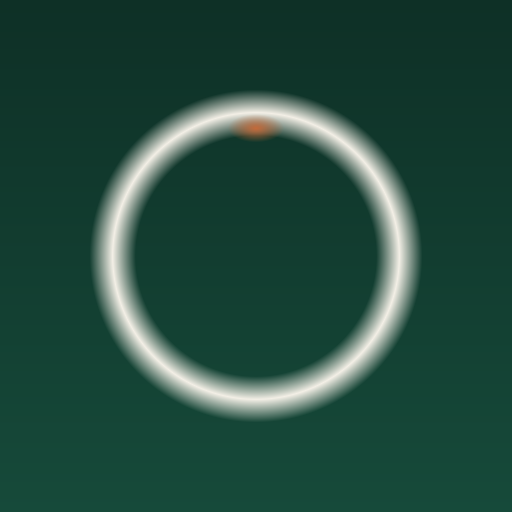
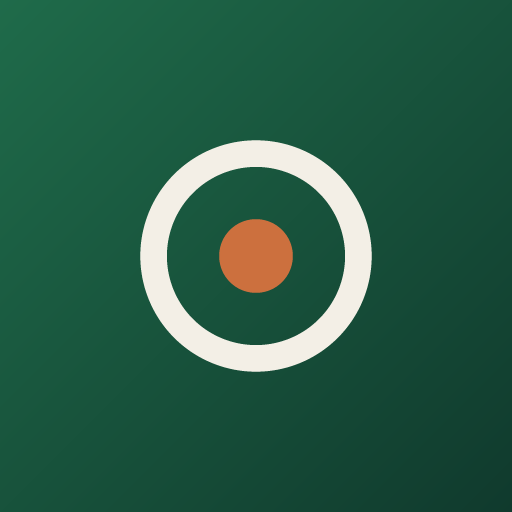
Installable app for iPhone and Mac (PWA polish; never caches /api data) (#6)
* Installable app: service worker never caches /api/*, offline shell, icon generator fixes

* Installable app: manifest, light/dark theme colors, offline Tasks message

* Installable app: safe areas, icon SVG, install instructions for iPhone and Mac

* Serve the repo root after the icon build step

* Restore main's vercel.json (no build step)

* Icon generator comment: run locally and commit the PNGs

* Commit regenerated PWA icons

---------

diff --git a/test/pwa.test.js b/test/pwa.test.js
@@ -1,0 +1,149 @@
+import { test } from 'node:test';
+import assert from 'node:assert/strict';
+import { existsSync, readFileSync } from 'node:fs';
+import vm from 'node:vm';
+import { inflateSync } from 'node:zlib';
+import { draw } from '../scripts/build-icons.mjs';
+
+const root = new URL('..', import.meta.url);
+const read = (path) => readFileSync(new URL(path, root), 'utf8');
+
+function pngSize(path) {
+  const data = readFileSync(new URL(path, root));
+  return [data.readUInt32BE(16), data.readUInt32BE(20)];
+}
+
+test('manifest installs as a standalone app with original icons and no orientation lock', () => {
+  const manifest = JSON.parse(read('manifest.json'));
+  assert.equal(manifest.display, 'standalone');
+  assert.equal(manifest.id, './');
+  assert.equal(manifest.start_url, './');
+  assert.equal(manifest.scope, './');
+  assert.equal(manifest.orientation, undefined, 'Mac and iPad windows must be free to rotate and resize');
+  assert.ok(manifest.short_name.length <= 12);
+  for (const icon of manifest.icons) {
+    assert.ok(existsSync(new URL(icon.src, root)), icon.src);
+    assert.equal(pngSize(icon.src).join('x'), icon.sizes);
+  }
+  assert.ok(manifest.icons.some((icon) => icon.purpose === 'maskable'));
+  assert.ok(manifest.icons.some((icon) => icon.sizes === '512x512' && icon.purpose !== 'maskable'));
+  assert.ok(manifest.shortcuts.some((s) => s.url === './#tasks'));
+});
+
+test('index has standalone metas, light and dark theme colors, and a 180px apple-touch-icon', () => {
+  const html = read('index.html');
+  assert.match(html, /viewport-fit=cover/);
+  assert.match(html, /<meta name="theme-color" content="#efeae2" media="\(prefers-color-scheme: light\)"/);
+  assert.match(html, /<meta name="theme-color" content="#141614" media="\(prefers-color-scheme: dark\)"/);
+  assert.match(html, /<meta name="apple-mobile-web-app-capable" content="yes"/);
+  assert.match(html, /<meta name="apple-mobile-web-app-title" content="Mission"/);
+  assert.match(html, /<link rel="manifest" href="manifest.json"/);
+  assert.match(html, /<link rel="apple-touch-icon" href="icons\/apple-touch-icon.png"/);
+  assert.deepEqual(pngSize('icons/apple-touch-icon.png'), [180, 180]);
+});
+
+function alphaAt(png, size) {
+  const idat = [];
+  let offset = 8;
+  while (offset < png.length) {
+    const length = png.readUInt32BE(offset);
+    if (png.toString('ascii', offset + 4, offset + 8) === 'IDAT') idat.push(png.subarray(offset + 8, offset + 8 + length));
+    offset += 12 + length;
+  }
+  const raw = inflateSync(Buffer.concat(idat));
+  return (x, y) => raw[y * (size * 4 + 1) + 1 + x * 4 + 3];
+}
+
+test('icon generator: apple-touch and maskable icons are opaque, "any" icons have rounded corners', () => {
+  // iOS fills transparent apple-touch-icon pixels with black, so it must be full bleed.
+  const touch = alphaAt(draw(180, { fullBleed: true }), 180);
+  for (let y = 0; y < 180; y += 1) {
+    for (let x = 0; x < 180; x += 1) assert.equal(touch(x, y), 255, `alpha at ${x},${y}`);
+  }
+  const maskable = alphaAt(draw(512, { fullBleed: true, ringScale: 0.2 }), 512);
+  assert.equal(maskable(0, 0), 255);
+  const any = alphaAt(draw(192), 192);
+  assert.equal(any(0, 0), 0);
+  assert.equal(any(96, 96), 255);
+});
+
+function loadWorker() {
+  const handlers = {};
+  const stored = new Map();
+  const cache = {
+    addAll: async () => {},
+    put: async (key, response) => { stored.set(String(key), response); },
+    match: async (key) => stored.get(String(key))
+  };
+  const context = {
+    URL,
+    Response: { error: () => 'network-error' },
+    Promise,
+    self: {
+      location: { origin: 'https://mission.test' },
+      addEventListener: (type, fn) => { handlers[type] = fn; },
+      skipWaiting: () => {},
+      clients: { claim: () => {} }
+    },
+    caches: {
+      open: async () => cache,
+      keys: async () => [],
+      delete: async () => true,
+      match: async (key) => stored.get(String(key))
+    },
+    fetch: async () => context.nextResponse
+  };
+  vm.runInNewContext(read('sw.js'), context);
+  async function dispatch(url, { method = 'GET', mode = 'cors' } = {}) {
+    let responded = null;
+    handlers.fetch({ request: { url, method, mode }, respondWith: (p) => { responded = p; } });
+    const result = responded ? await responded : undefined;
+    await new Promise((resolve) => setTimeout(resolve, 0));
+    return { responded: Boolean(responded), result };
+  }
+  return { context, stored, dispatch };
+}
+
+function fakeResponse(extra = {}) {
+  return { ok: true, type: 'basic', redirected: false, clone() { return { ...this, cloned: true }; }, ...extra };
+}
+
+test('service worker never handles or caches /api/* data', async () => {
+  const sw = loadWorker();
+  for (const path of ['/api/tasks', '/api/tasks?t=1', '/api/status?t=2', '/api/sections', '/api/anything']) {
+    sw.context.nextResponse = fakeResponse();
+    const { responded } = await sw.dispatch(`https://mission.test${path}`);
+    assert.equal(responded, false, path);
+  }
+  assert.equal(sw.stored.size, 0);
+  const post = await sw.dispatch('https://mission.test/api/tasks', { method: 'POST' });
+  assert.equal(post.responded, false);
+});
+
+test('service worker caches app files once per path and skips redirects and other origins', async () => {
+  const sw = loadWorker();
+  sw.context.nextResponse = fakeResponse();
+  await sw.dispatch('https://mission.test/status.json?t=123');
+  await sw.dispatch('https://mission.test/status.json?t=456');
+  assert.deepEqual([...sw.stored.keys()], ['https://mission.test/status.json']);
+
+  sw.context.nextResponse = fakeResponse({ redirected: true });
+  await sw.dispatch('https://mission.test/app.js');
+  sw.context.nextResponse = fakeResponse({ type: 'opaqueredirect', ok: false });
+  await sw.dispatch('https://mission.test/styles.css');
+  const other = await sw.dispatch('https://vercel.com/sso-api');
+  assert.equal(other.responded, false);
+  assert.deepEqual([...sw.stored.keys()], ['https://mission.test/status.json']);
+
+  sw.context.fetch = async () => { throw new TypeError('offline'); };
+  const offline = await sw.dispatch('https://mission.test/status.json?t=789');
+  assert.equal(offline.result.cloned, true);
+});
+
+test('every precached asset exists', () => {
+  const source = read('sw.js');
+  const list = source.slice(source.indexOf('const ASSETS = ['), source.indexOf('];'));
+  const assets = [...list.matchAll(/'\.\/([^']*)'/g)].map((m) => m[1]).filter(Boolean);
+  assert.ok(assets.length > 10);
+  for (const asset of assets) assert.ok(existsSync(new URL(asset, root)), asset);
+});

diff --git a/sw.js b/sw.js
@@ -1,14 +1,21 @@
-const CACHE = 'mission-control-v5';
+/*
+ * Offline shell for the installed app (iPhone Home Screen, Mac Dock).
+ * - App files (HTML, CSS, JS, icons, the committed example seed) are cached so the app opens offline.
+ * - Every /api/* request is network-only and is never written to the cache. Live tasks, money,
+ *   health, and section data only ever come from the network.
+ * - Redirected responses (for example a Vercel sign-in redirect) and non-same-origin responses are never cached.
+ */
+const CACHE = 'mission-control-v6';
 const ASSETS = [
   './',
   './index.html',
   './styles.css',
+  './tasks.css',
   './app.js',
   './tasks.js',
-  './tasks.css',
-  './lib/tasks.js',
   './lib/sections.js',
   './lib/privacy.js',
+  './lib/tasks.js',
   './manifest.json',
   './status.json',
   './outputs/manifest.json',
@@ -33,28 +40,32 @@ self.addEventListener('activate', (event) => {
   );
 });
 
+function cacheable(response) {
+  return Boolean(response && response.ok && response.type === 'basic' && !response.redirected);
+}
+
 self.addEventListener('fetch', (event) => {
   const request = event.request;
   if (request.method !== 'GET') return;
   const url = new URL(request.url);
   if (url.origin !== self.location.origin) return;
 
-  if (url.pathname.endsWith('/api/tasks')) return;
+  // Data: network only, never cached. The page shows its own offline message.
+  if (url.pathname.includes('/api/')) return;
 
-  if (url.pathname.endsWith('/api/status') || url.pathname === '/api/status') {
-    event.respondWith(fetch(request).catch(() => caches.match('./status.json')));
-    return;
-  }
-
+  // App files: network first, cached copy offline. The cache key drops the query string
+  // (the page adds ?t= to bust caches), so one copy is kept per file.
+  const key = url.origin + url.pathname;
   event.respondWith(
     fetch(request)
       .then((response) => {
-        if (response && response.ok) {
+        if (cacheable(response)) {
           const copy = response.clone();
-          caches.open(CACHE).then((cache) => cache.put(request, copy));
+          caches.open(CACHE).then((cache) => cache.put(key, copy));
         }
         return response;
       })
-      .catch(() => caches.match(request).then((cached) => cached || caches.match('./index.html')))
+      .catch(() => caches.match(key, { ignoreSearch: true })
+        .then((cached) => cached || (request.mode === 'navigate' ? caches.match('./index.html') : Response.error())))
   );
 });

diff --git a/tasks.js b/tasks.js
@@ -112,9 +112,11 @@ async function load(force = false) {
     state.meta = body.meta || null;
     state.error = '';
   } catch (error) {
-    state.error = error.message === 'storage_unconfigured'
-      ? 'Task storage is not connected on this deployment.'
-      : 'Tasks could not be loaded. Pull to refresh or try again.';
+    state.error = navigator.onLine === false
+      ? 'You are offline. Tasks load from the network only, so they will appear when you are back online.'
+      : error.message === 'storage_unconfigured'
+        ? 'Task storage is not connected on this deployment.'
+        : 'Tasks could not be loaded. Pull to refresh or try again. If it keeps failing, your sign-in may have expired: reload the app.';
   }
   state.loaded = true;
   render();
@@ -331,6 +333,10 @@ async function submitSheet(event) {
     category: data.get('category') || null,
     private: data.get('private') === 'on'
   };
+  if (navigator.onLine === false) {
+    toast('You are offline. Your task is still in the form; add it when you are back online.');
+    return;
+  }
   const button = form.querySelector('button[type="submit"]');
   button.disabled = true;
   try {
@@ -423,6 +429,7 @@ function bind() {
   $('tk-fab').addEventListener('click', openSheet);
   window.addEventListener('hashchange', showTab);
   document.addEventListener('visibilitychange', () => { if (!document.hidden && location.hash === '#tasks') load(); });
+  window.addEventListener('online', () => { if (location.hash === '#tasks') load(true); });
 }
 
 bind();

diff --git a/index.html b/index.html
@@ -3,7 +3,8 @@
 <head>
   <meta charset="UTF-8" />
   <meta name="viewport" content="width=device-width, initial-scale=1, viewport-fit=cover" />
-  <meta name="theme-color" content="#efeae2" />
+  <meta name="theme-color" content="#efeae2" media="(prefers-color-scheme: light)" data-auto="#efeae2" />
+  <meta name="theme-color" content="#141614" media="(prefers-color-scheme: dark)" data-auto="#141614" />
   <meta name="color-scheme" content="light dark" />
   <meta name="apple-mobile-web-app-capable" content="yes" />
   <meta name="mobile-web-app-capable" content="yes" />
@@ -23,9 +24,11 @@
       var mode = q || localStorage.getItem('mission-theme') || 'auto';
       if (mode === 'light' || mode === 'dark') document.documentElement.dataset.theme = mode;
       if (q === 'light' || q === 'dark' || q === 'auto') localStorage.setItem('mission-theme', q);
-      var dark = mode === 'dark' || (mode !== 'light' && matchMedia('(prefers-color-scheme: dark)').matches);
-      var theme = document.querySelector('meta[name="theme-color"]');
-      if (theme && dark) theme.content = '#141614';
+      if (mode === 'light' || mode === 'dark') {
+        document.querySelectorAll('meta[name="theme-color"]').forEach(function (meta) {
+          meta.content = mode === 'dark' ? '#141614' : '#efeae2';
+        });
+      }
     })();
   </script>
 </head>

diff --git a/app.js b/app.js
@@ -140,9 +140,11 @@ function applyTheme(mode, persist = true) {
   if (mode === 'auto') delete document.documentElement.dataset.theme;
   else document.documentElement.dataset.theme = mode;
   if (persist) localStorage.setItem('mission-theme', mode);
-  const dark = currentTheme() === 'dark';
-  const meta = document.querySelector('meta[name="theme-color"]');
-  if (meta) meta.content = dark ? '#141614' : '#efeae2';
+  // Pinned theme: both theme-color metas take that color. Auto: each meta keeps its own media color.
+  document.querySelectorAll('meta[name="theme-color"]').forEach((meta) => {
+    if (mode === 'light' || mode === 'dark') meta.content = mode === 'dark' ? '#141614' : '#efeae2';
+    else meta.content = meta.dataset.auto || meta.content;
+  });
   const button = $('theme-toggle');
   const label = mode === 'auto' ? 'Auto' : mode === 'dark' ? 'Dark' : 'Light';
   button.textContent = `Theme · ${label}`;

diff --git a/styles.css b/styles.css
@@ -572,3 +572,14 @@ body.lock { overflow: hidden; }
   .week { grid-template-columns: repeat(7, 1fr); }
   .pipeline { grid-template-columns: repeat(4, 1fr); }
 }
+
+/* Installed app (iPhone Home Screen, Mac Dock). Keep content clear of the notch and rounded corners in landscape. */
+.shell {
+  padding-left: env(safe-area-inset-left);
+  padding-right: env(safe-area-inset-right);
+}
+
+@media (display-mode: standalone) {
+  html { -webkit-tap-highlight-color: transparent; }
+  nav a, button { -webkit-touch-callout: none; }
+}

diff --git a/README.md b/README.md
@@ -6,13 +6,27 @@ Live site: **https://tanna-team-dashboard.vercel.app/** (Vercel SSO, same as bef
 
 Repo: https://github.com/nareshtanna-bot/tanna-team-dashboard
 
-## Install on an iPhone
+## Install on an iPhone or a Mac
 
-1. Open the live URL in Safari and sign in with Vercel.
-2. Share → **Add to Home Screen**.
-3. Name: **Mission**. It opens full screen, without the Safari chrome.
+**iPhone (iOS 17.2 or later):**
 
-The manifest, apple touch icon, and service worker are what make that install work. Data refreshes about every 60 seconds, when the app is opened or comes back to the foreground, and when you pull down from the top. The header shows when the status was updated and when this phone last checked.
+1. Open https://tanna-team-dashboard.vercel.app in Safari and sign in with Vercel. Load the page once, signed in.
+2. Share → **Add to Home Screen**. Name: **Mission**. Leave **Open as Web App** on.
+3. Open Mission from the Home Screen. It runs full screen, without the Safari chrome. If it asks you to sign in, do it there once. The Vercel sign-in page opens in a sheet inside the app and returns you to Mission.
+
+**Mac (macOS Sonoma 14 or later, Safari 17 or later):**
+
+1. Open the same URL in Safari and sign in with Vercel.
+2. **File → Add to Dock** (or Share → Add to Dock). Name: **Mission**.
+3. Mission opens in its own window and has its own Dock icon. Safari copies its cookies when you create the app, so you stay signed in.
+
+The app keeps its own cookies apart from Safari after you install it. Signing out of Vercel in Safari does not sign the app out, and the reverse is true too. When the Vercel session ends, reload the app and sign in again inside it.
+
+The manifest, apple touch icon, and service worker make the install work. The service worker caches only the app files (HTML, CSS, JS, icons, and the committed example status), so the app still opens offline. Every `/api/*` request goes to the network only and is never cached. Tasks, money, and health data are never stored on the device by the service worker. Offline, the Tasks tab says so rather than showing old data.
+
+Data refreshes about every 60 seconds, when the app opens or comes back to the foreground, and when you pull down from the top. The header shows when the status was last updated and when this device last checked.
+
+Icons are original and come from `node scripts/build-icons.mjs`.
 
 ## What the page is
 
